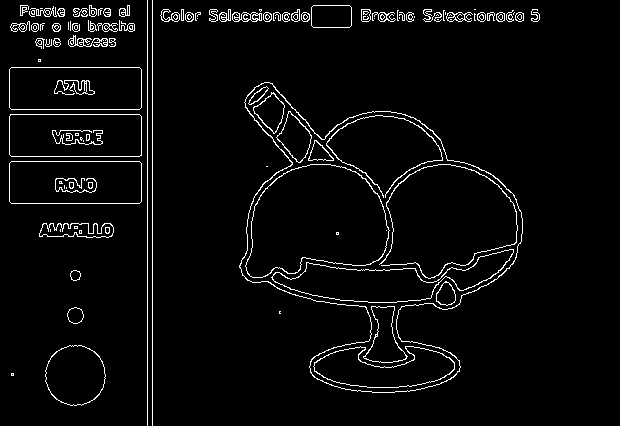
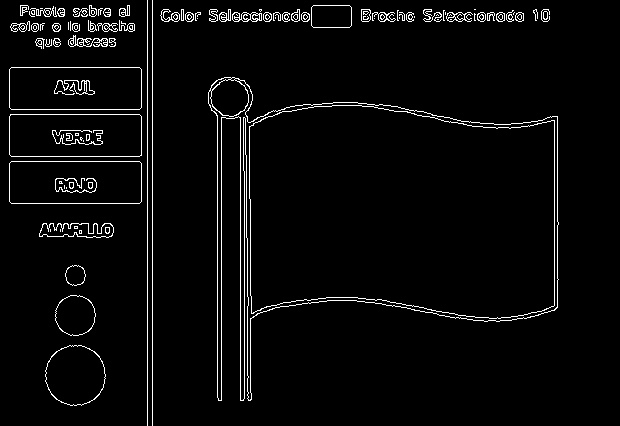
cambios 11/04

diff --git a/camera.py b/camera.py
@@ -6,8 +6,28 @@ import os
 MENU_LIMIT_AREA = 150
 PAINT_WINDOW_SHAPE = (620,426)
 
-def _get_border_image(paint_window, image_name):
 
+def _get_image_result():
+	"""
+    Lee dos imágenes, la imagen original y la imagen después de ser pintada y se 
+	les asigna la misma dimensión. Posteriormente, se usa la operación Bitwise_or,
+	donde su salida será 255 cuando al menos un pixel de las imagenes sea 255.
+	Finalmente retorna una imagen que identifica cuales bordes de la imagen original 
+	tocó el usuario con el pincel junto con su respectivo color. 
+    """
+	image_original_path = os.path.join('Imagenes','Generadas','unpainted_image.jpg')
+	image_painted_path = os.path.join('Imagenes','Generadas','painted_image2.jpg')
+	imagen_original = cv2.imread(image_original_path)
+	imagen_painted = cv2.imread(image_painted_path)
+
+	imagen_original = imagen_original[30:,150:]
+	imagen_painted = imagen_painted[30:,150:]
+
+	OR = cv2.bitwise_or(imagen_original,imagen_painted)
+	return OR
+	
+def _get_border_image(paint_window, image_name):
+	
 	folder_images_path = os.path.join('Imagenes','Generadas')
 
 	if not os.path.exists(folder_images_path):
@@ -15,12 +35,10 @@ def _get_border_image(paint_window, image_name):
 
 	image_path = os.path.join(folder_images_path,'{}.jpg'.format(image_name))
 	image_border_path = os.path.join(folder_images_path,'{}_border.jpg'.format(image_name))
-	
 	cv2.imwrite(image_path,paint_window)
 	image = cv2.imread(image_path,1)
-	
-	gray = cv2.cvtColor(image, cv2.COLOR_BGR2GRAY)
-	border = cv2.Canny(gray,100,200)
+	gray = cv2.cvtColor(image, cv2.COLOR_BGR2GRAY) #transformar la imagen de BGR a escala de grises
+	border = cv2.Canny(gray,100,200) #implementación del algoritmo canny (umbral bajo, umbral alto)
 	
 	cv2.imwrite(image_border_path,border)
 	
@@ -96,8 +114,8 @@ def _paint_menu(window,colors):
 	window = cv2.rectangle(window, (10,162), (140,202), colors[2], -1)
 	window = cv2.rectangle(window, (10,209), (140,249), colors[3], -1)
 
-	window = cv2.circle(window, (75,275), 5, (0,0,0), -1)
-	window = cv2.circle(window, (75,315), 8, (0,0,0), -1)
+	window = cv2.circle(window, (75,275), 10, (0,0,0), -1)
+	window = cv2.circle(window, (75,315), 20, (0,0,0), -1)
 	window = cv2.circle(window, (75,375), 30, (0,0,0), -1)
 
 	cv2.putText(window, "AZUL", (55, 92), cv2.FONT_HERSHEY_SIMPLEX, 0.5, (255, 255, 255), 2, cv2.LINE_AA)
@@ -115,10 +133,18 @@ def _paint_counter(window,time_elapsed):
 	return window
 
 def _paint_results(window,score):
-	cv2.putText(window, "FELICIDADES", (10, 90), cv2.FONT_HERSHEY_SIMPLEX, 0.5, (0, 0, 0), 1, cv2.LINE_AA)
-	cv2.putText(window, "TU PUNTAJE", (10, 120), cv2.FONT_HERSHEY_SIMPLEX, 0.5, (0, 0, 0), 1, cv2.LINE_AA)
-	cv2.putText(window, "ES", (10, 150), cv2.FONT_HERSHEY_SIMPLEX, 0.5, (0, 0, 0), 1, cv2.LINE_AA)
-	cv2.putText(window, str(np.round(score,4)*100), (10, 180), cv2.FONT_HERSHEY_SIMPLEX, 0.5, (0, 0, 0), 1, cv2.LINE_AA)
+	cv2.putText(window, "PARTICIPASTE EN", (2, 31), cv2.FONT_HERSHEY_TRIPLEX, 0.9, (0, 0, 0), 1, cv2.LINE_AA)
+	cv2.putText(window, "P", (273, 31), cv2.FONT_HERSHEY_TRIPLEX, 0.9, (0, 0, 0), 1, cv2.LINE_AA)
+	cv2.putText(window, "A", (285, 31), cv2.FONT_HERSHEY_TRIPLEX, 1, (255, 0, 0), 1, cv2.LINE_AA)
+	cv2.putText(window, " IN", (290, 31), cv2.FONT_HERSHEY_TRIPLEX, 0.9, (0, 0, 0), 1, cv2.LINE_AA)
+	cv2.putText(window, "T", (334, 31), cv2.FONT_HERSHEY_TRIPLEX, 1, (0, 255, 0), 1, cv2.LINE_AA)
+	cv2.putText(window, "UR", (353, 31), cv2.FONT_HERSHEY_TRIPLEX, 0.9, (0, 0, 0), 1, cv2.LINE_AA)
+	cv2.putText(window, " I", (375, 31), cv2.FONT_HERSHEY_TRIPLEX, 1, (0, 0, 255), 1, cv2.LINE_AA)
+	cv2.putText(window, "LL", (400, 31), cv2.FONT_HERSHEY_TRIPLEX, 0.9, (0, 0, 0), 1, cv2.LINE_AA)
+	cv2.putText(window, "O", (433, 31), cv2.FONT_HERSHEY_TRIPLEX, 1, (0, 255, 255), 1, cv2.LINE_AA)
+	window = cv2.line(window, (0,375), (470,375), (0,0,0), 2)
+	cv2.putText(window, " PUNTUACION TOTAL :", (5,391), cv2.FONT_HERSHEY_SIMPLEX, 0.45, (0, 255, 0), 2, cv2.LINE_AA)
+	cv2.putText(window, str(np.round(score,4)*100), (165, 393), cv2.FONT_HERSHEY_SIMPLEX, 0.5, (0, 0, 0), 1, cv2.LINE_AA)
 
 
 def _paint_rules(window,colors,idx,brushes,brush_idx):
@@ -136,7 +162,7 @@ def _paint_rules(window,colors,idx,brushes,brush_idx):
 	return window
 
 colors = [(255, 0, 0), (0, 255, 0), (0, 0, 255), (0, 255, 255)]
-brushes = [5,8,30]
+brushes = [10,20,30]
 color_idx = 0
 brush_idx = 0
 
@@ -145,11 +171,11 @@ paintWindow = _paint_menu(paintWindow,colors)
 paintWindow = _paint_rules(paintWindow,colors,color_idx,brushes,brush_idx)
 
 cap = cv2.VideoCapture(0)
-time_to_win = 50
+time_to_win = 200
 
 _get_border_image(paintWindow, 'unpainted_image')
 
-hidden_layer = np.zeros(PAINT_WINDOW_SHAPE)
+hidden_layer = np.zeros((471,636,3)) + 255
 hidden_layer = cv2.resize(hidden_layer,PAINT_WINDOW_SHAPE)
 
 while(True):
@@ -165,7 +191,7 @@ while(True):
     		frame = cv2.rectangle(frame,object_point_one,object_point_two,colors[color_idx],4)
 	    	frame = cv2.circle(frame, object_half_point, brushes[brush_idx], colors[color_idx], -1)
 	    	cv2.circle(paintWindow, object_half_point, brushes[brush_idx], colors[color_idx], -1)
-	    	cv2.circle(hidden_layer, object_half_point, brushes[brush_idx], colors[color_idx], -1)
+	    	hidden_layer=cv2.circle(hidden_layer, object_half_point, brushes[brush_idx], colors[color_idx], -1)
     	
     	else:
 
@@ -197,16 +223,15 @@ while(True):
     cv2.imshow('frame',frame)
     cv2.imshow("Paint", paintWindow)
     if (cv2.waitKey(20) & 0xFF == ord('q')) or time_to_win <= 0:
-    	_get_border_image(paint_window=hidden_layer, image_name='painted_image')
+    	_get_border_image(paint_window=hidden_layer, image_name='painted_image'),_get_border_image(paint_window=paintWindow, image_name='painted_image2')
     	break
 
     time_to_win -= 1
 
-
 cv2.destroyAllWindows()
 
 score = _compute_score()
-results_window = _get_draw_image()
+results_window = _get_image_result()
 _paint_results(results_window,score)
 cv2.imshow('RESULTADOS',results_window)
 cv2.waitKey()
